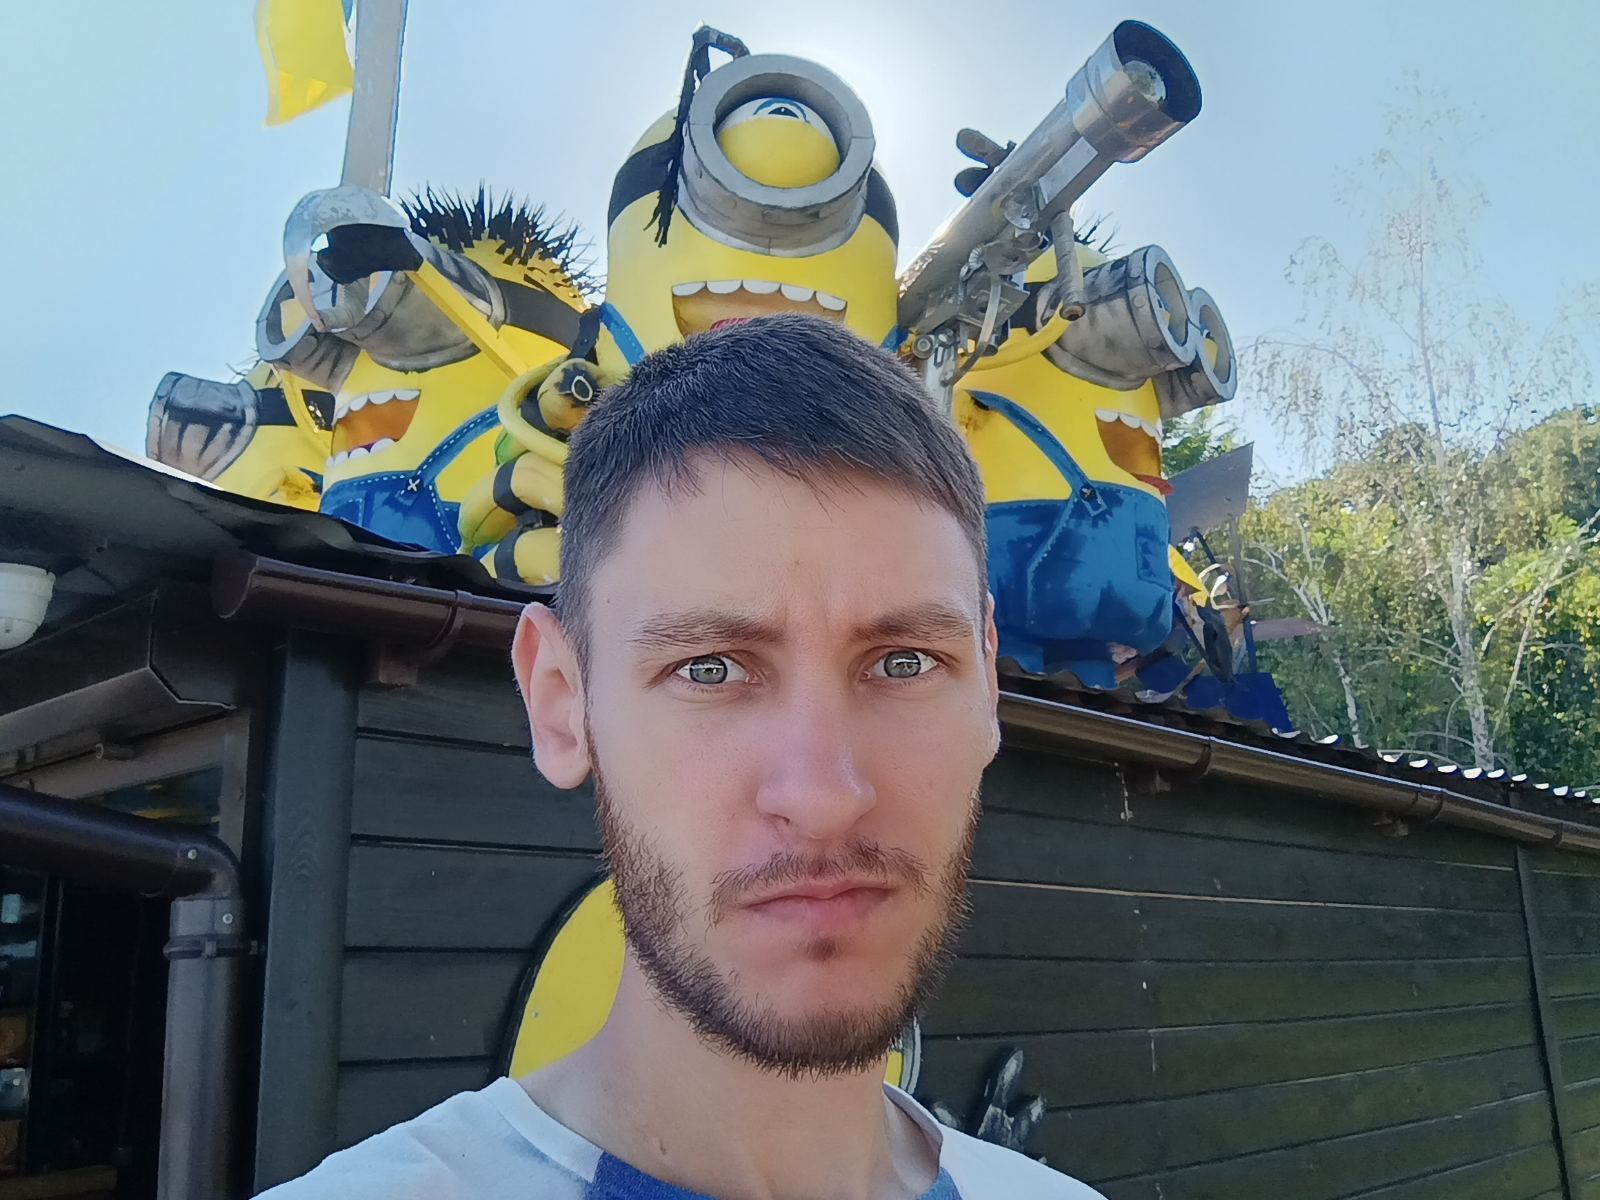
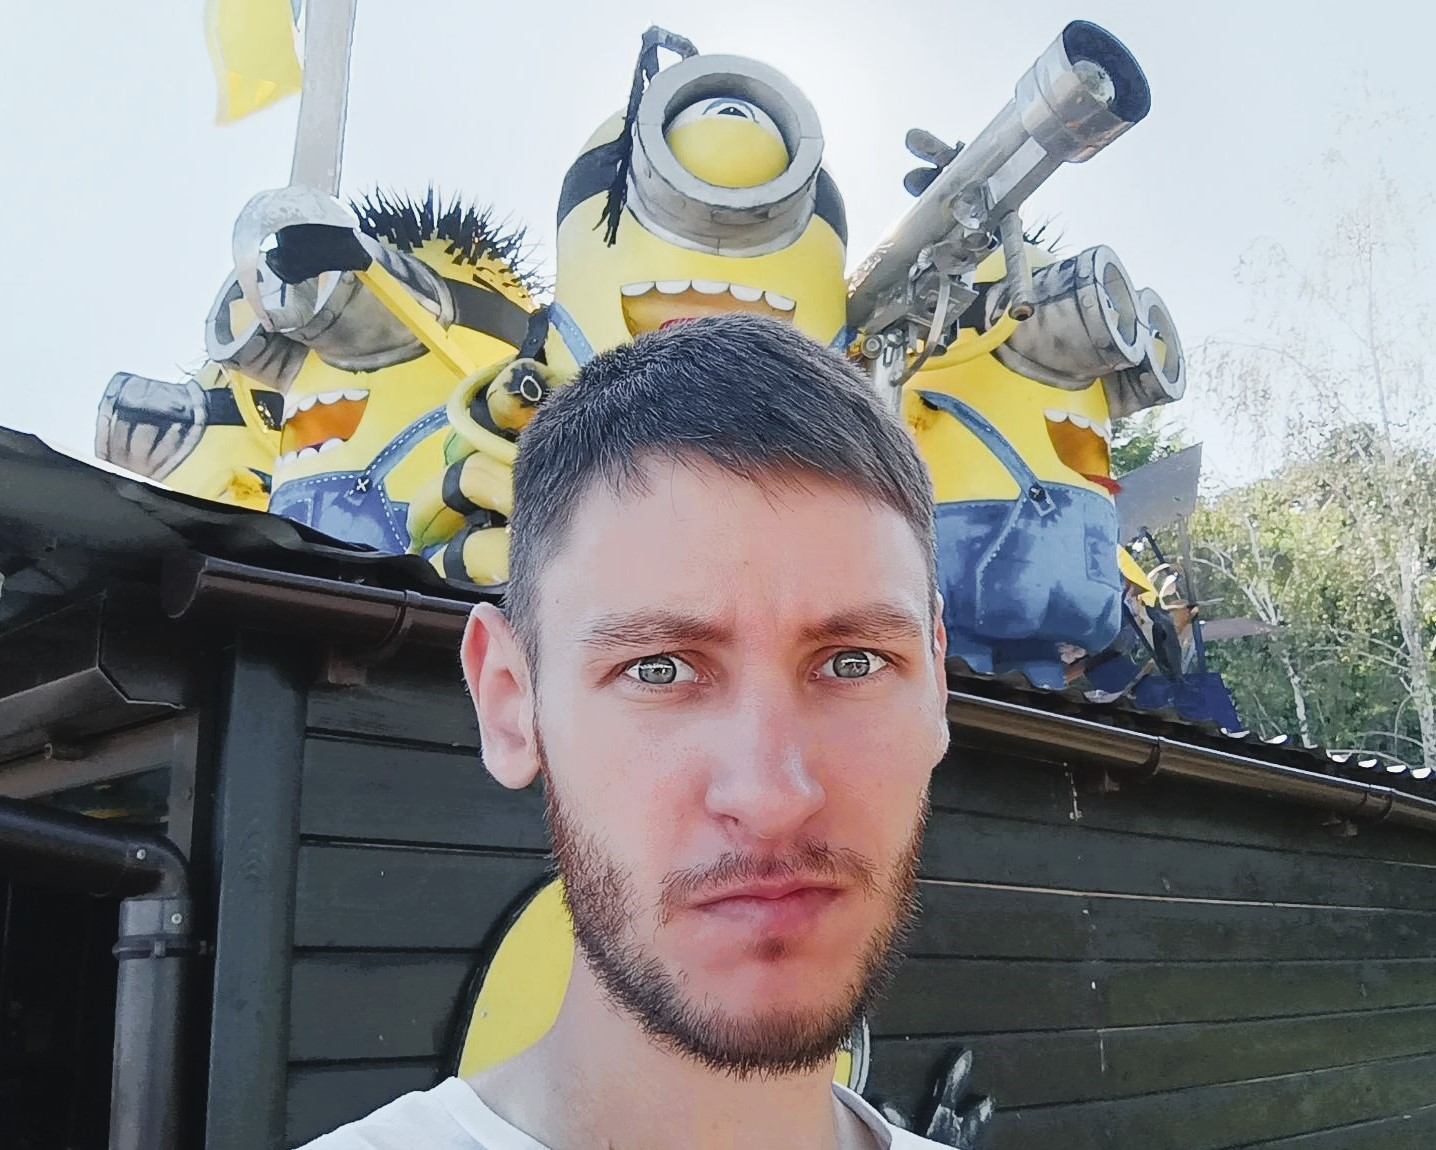
moderate additional section with joke

diff --git a/index.html b/index.html
@@ -65,7 +65,7 @@
                      </div>
 
                      <div class="contact-info__block contact-info__block--center">
-                        <img class="contact-info__avatar" src="assets/img/IMG-1.jpg" alt="Avatar" />
+                        <img class="contact-info__avatar" src="assets/img/IMG-2.jpg" alt="Avatar" />
                      </div>
 
                      <div class="contact-info__block">
@@ -500,6 +500,9 @@
                      </div>
                   </div>
                </div>
+               <p class="additional-info__education-university-durability">
+                  "Alone we can do little; together we can move mountains..." (see main image)
+               </p>
             </div>
          </div>
       </main>

diff --git a/styles.css b/styles.css
@@ -24,8 +24,11 @@ body {
    -webkit-filter: grayscale(100%);
 }
 
-.contact-info__block--center img {
+.contact-info__avatar {
    scale: 1.45;
+}
+.contact-info__avatar:hover {
+   content: url('./assets/img/IMG-1.jpg');
 }
 
 .container {
